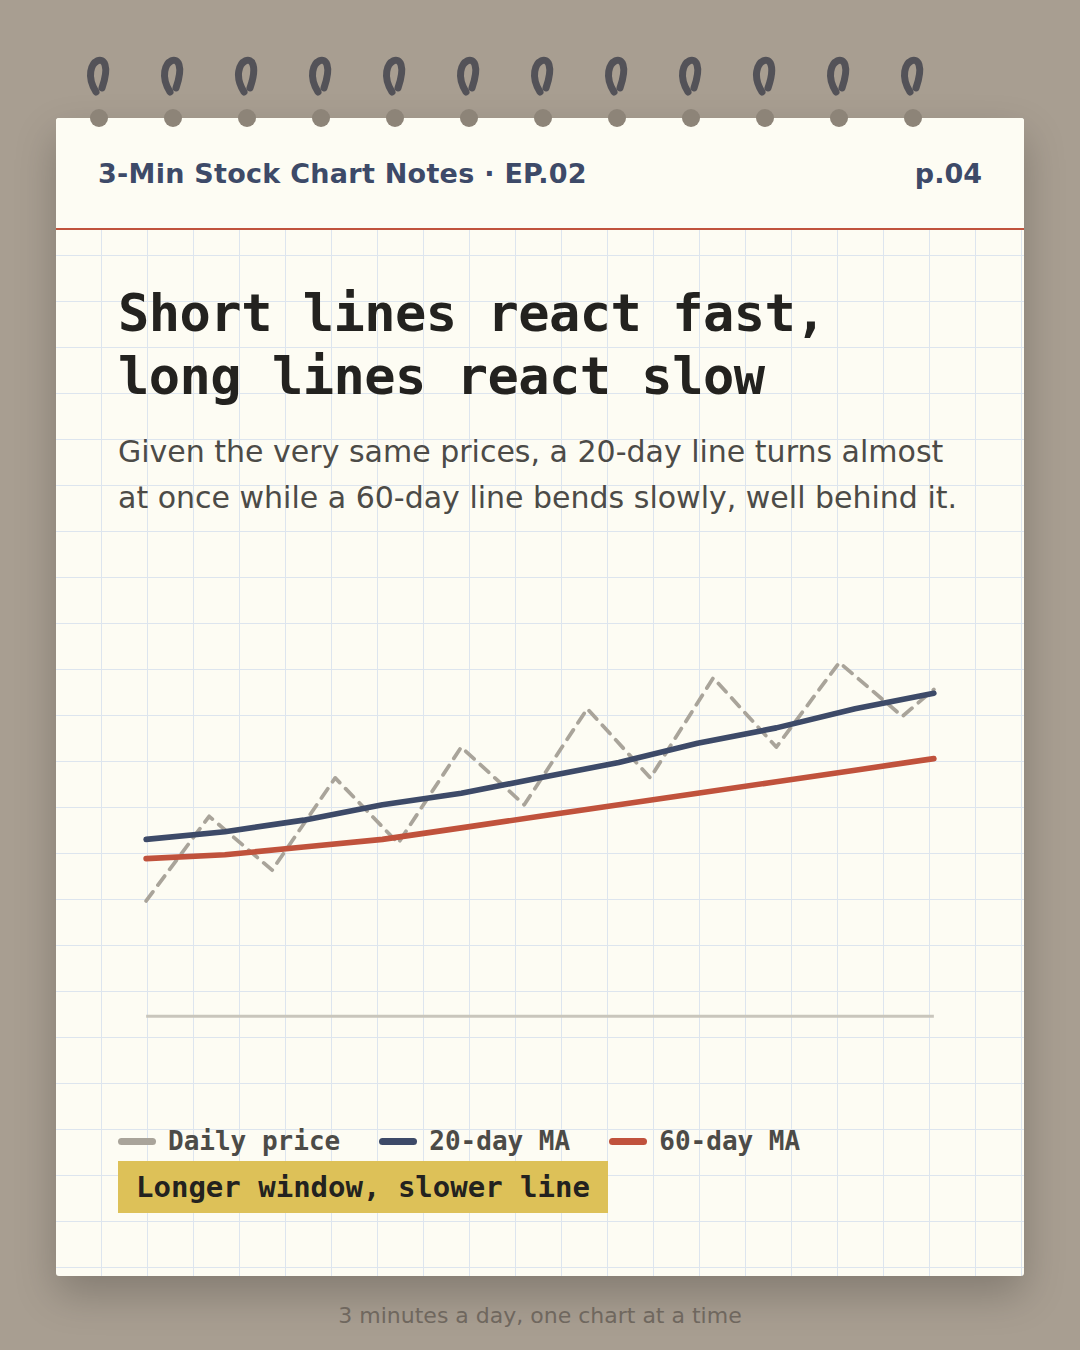
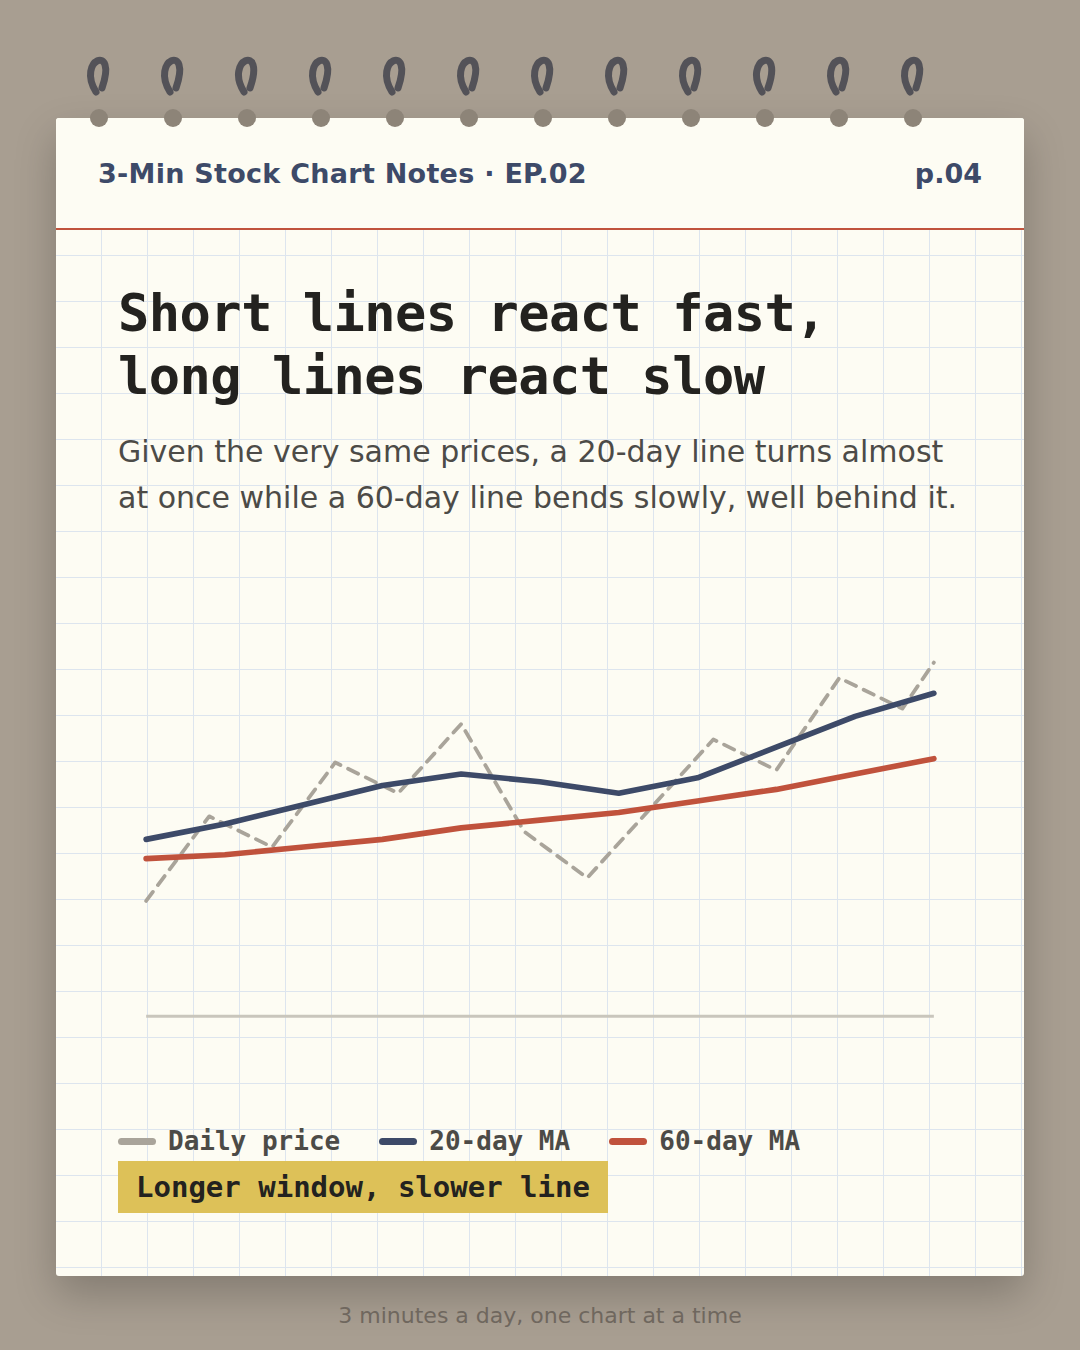
chart-notes: ep02 검증 지적 사항 반영 (사실 정정 + 문구·그림 수정)
별도 검증 에이전트가 잡아낸 5건을 고쳤다. p.06 시세(날짜·이동평균값·종가)는
양쪽 언어 모두 원본과 자릿수까지 일치해 그대로 두었다.

- fact_check.en 이 "최근 2년 중 유일한 50/200 교차"라고 적었는데 사실이 아니다.
  2년치만 받으면 앞쪽 200거래일 구간에서는 200일선이 아예 계산되지 않아
  그 구간의 교차가 보이지 않는다. 5년치로 다시 뽑아 확인하니 2025-04-14 에
  데드크로스(50일선 5,748.25 / 200일선 5,753.90)가 하나 더 있었다.
  기록을 정정하고, 교차 개수를 말하려면 3년치 이상이 필요하다는 점을 함께 남겼다.
- p.04 그림이 본문과 어긋났다. "20일선은 곧바로 방향을 튼다"고 써 놓고
  두 선 모두 한 번도 꺾이지 않는 단조 상승이었다. 20일선이 실제로 눌렸다
  돌아서고 60일선은 계속 완만히 오르도록 다시 그렸다(교차는 생기지 않는다).
- p.03 '101 이면' → '101이면' (조사는 붙여 쓴다), '그 날짜 수' → '그 날 수'.
- 다음 편 예고 문구 '가격은 거짓말을 해도 거래량은 못 합니다'는 단정이라
  뺐다. 거래량도 자전거래 등으로 부풀릴 수 있다. 양쪽 캡션을 함께 고쳤다.

Changed region(s): [[0.1528, 0.4978, 0.8556, 0.6533]]

diff --git a/cards/chart-notes/2026-08-02-ep02/preview.html b/cards/chart-notes/2026-08-02-ep02/preview.html
@@ -56,7 +56,7 @@
 제출하면 다음 확인 루틴이 읽고 처리한 뒤, 결과를 카카오톡으로 알려드립니다.</p>
 
 <div class="fact"><b>시세 검증 기록</b>
-<div>KO — 코스피(^KS11) 20일/60일 이동평균 교차 — 2026-07-21(KST) 데드크로스. 20일선 7,684.13 / 60일선 7,754.10, 당일 종가 6,747.95. 전 거래일 2026-07-20 은 20일선 7,802.46 &gt; 60일선 7,748.11 로 아직 위. Yahoo Finance 일봉 종가로 직접 산출(단순이동평균). 원본 봉은 15:00Z 로 찍혀 실제 거래일은 +1일이며, 어린이날(5/5)·설날(2/17)·지방선거(6/3)·제헌절(7/17) 휴장 자리가 정확히 비어 있어 오프셋을 교차검증함.</div><div>EN — S&amp;P 500 (^GSPC) 50-day/200-day golden cross on 2025-07-01: 50-day 5,846.34 vs 200-day 5,836.35 (close 6,198.01). Prior session 2025-06-30 was still 5,828.03 vs 5,833.13. Only 50/200 crossover in the trailing 2 years; 50-day still above as of 2026-07-31 (7,471.51 vs 7,024.11). Simple moving averages computed directly from Yahoo Finance daily closes.</div></div>
+<div>KO — 코스피(^KS11) 20일/60일 이동평균 교차 — 2026-07-21(KST) 데드크로스. 20일선 7,684.13 / 60일선 7,754.10, 당일 종가 6,747.95. 전 거래일 2026-07-20 은 20일선 7,802.46 &gt; 60일선 7,748.11 로 아직 위. Yahoo Finance 일봉 종가로 직접 산출(단순이동평균). 원본 봉은 15:00Z 로 찍혀 실제 거래일은 +1일이며, 어린이날(5/5)·설날(2/17)·지방선거(6/3)·제헌절(7/17) 휴장 자리가 정확히 비어 있어 오프셋을 교차검증함.</div><div>EN — S&amp;P 500 (^GSPC) 50-day/200-day golden cross on 2025-07-01: 50-day 5,846.34 vs 200-day 5,836.35 (close 6,198.01). Prior session 2025-06-30 was still 5,828.03 vs 5,833.13. Two 50/200 crossovers in the trailing 2 years — dead cross 2025-04-14 (5,748.25 vs 5,753.90) and this golden cross — and none since; 50-day still above as of 2026-07-31 (7,471.51 vs 7,024.11). Simple moving averages computed directly from Yahoo Finance daily closes, over a 5-year pull: a 2-year pull cannot resolve a 200-day average across its own first 200 sessions, so crossover counts need 3y+ of history.</div></div>
 
 
     <h2>🇰🇷 한국어 — 8장</h2>
@@ -93,8 +93,8 @@
       <img src="ko/card8.png" alt="오늘의 3줄 요약과 다음 편(거래량) 예고, 투자 권유가 아니라는 교육 목적 고지" loading="lazy">
       <figcaption><b>p.08</b> 오늘의 3줄 요약과 다음 편(거래량) 예고, 투자 권유가 아니라는 교육 목적 고지</figcaption>
     </figure></div>
-    <h3>캡션 (440자)</h3>
-    <div class="cap">📊 주식 차트 3분 노트 EP.02 — 이동평균선 &amp; 골든크로스<br><br>차트 위에 겹쳐진 그 부드러운 곡선들, 이동평균선입니다.<br>최근 며칠 종가의 평균일 뿐인데 왜 다들 두 선이 만나는 순간을 쳐다볼까요?<br><br>그리고 골든크로스는 '오른다'는 뜻이 아닙니다. 평균은 이미 지나간 가격으로 만들기 때문에, 교차는 예측이 아니라 확인에 가깝습니다.<br>실제로 2026년 7월 21일 코스피에서는 20일선이 60일선을 아래로 뚫는 데드크로스가 나왔습니다. 그 숫자까지 카드에 담았어요.<br><br>📌 저장해두고 차트 볼 때 꺼내보세요<br>👇 주식 시작한 친구 태그하기<br><br>(교육 목적 콘텐츠이며 투자 권유가 아닙니다)<br><br>다음 편은 '거래량' — 가격은 거짓말을 해도 거래량은 못 합니다.<br><br>#주식초보 #주식공부 #이동평균선 #골든크로스 #데드크로스 #주식차트보는법 #코스피 #재테크 #주식용어 #luckyon브리핑</div>
+    <h3>캡션 (443자)</h3>
+    <div class="cap">📊 주식 차트 3분 노트 EP.02 — 이동평균선 &amp; 골든크로스<br><br>차트 위에 겹쳐진 그 부드러운 곡선들, 이동평균선입니다.<br>최근 며칠 종가의 평균일 뿐인데 왜 다들 두 선이 만나는 순간을 쳐다볼까요?<br><br>그리고 골든크로스는 '오른다'는 뜻이 아닙니다. 평균은 이미 지나간 가격으로 만들기 때문에, 교차는 예측이 아니라 확인에 가깝습니다.<br>실제로 2026년 7월 21일 코스피에서는 20일선이 60일선을 아래로 뚫는 데드크로스가 나왔습니다. 그 숫자까지 카드에 담았어요.<br><br>📌 저장해두고 차트 볼 때 꺼내보세요<br>👇 주식 시작한 친구 태그하기<br><br>(교육 목적 콘텐츠이며 투자 권유가 아닙니다)<br><br>다음 편은 '거래량' — 가격이 말해주지 않는 것을 거래량이 보여줍니다.<br><br>#주식초보 #주식공부 #이동평균선 #골든크로스 #데드크로스 #주식차트보는법 #코스피 #재테크 #주식용어 #luckyon브리핑</div>
 
     <h2>🇺🇸 English — 8장</h2>
     <div class="cards">
@@ -130,8 +130,8 @@
       <img src="en/card8.png" alt="Recap in three lines, a preview of the next episode on trading volume, and an educational-purpose disclaimer" loading="lazy">
       <figcaption><b>p.08</b> Recap in three lines, a preview of the next episode on trading volume, and an educational-purpose disclaimer</figcaption>
     </figure></div>
-    <h3>캡션 (876자)</h3>
-    <div class="cap">📊 3-Min Stock Chart Notes EP.02 — Moving averages &amp; the golden cross<br><br>Those smooth curves laid over the candles are moving averages.<br>They are just the average of the last few closes — so why does everyone watch the moment two of them meet?<br><br>And a golden cross is not a "buy" signal. An average is built from prices that already happened, so a crossing confirms a trend rather than predicting one.<br>A real one: on July 1, 2025 the S&amp;P 500's 50-day average crossed above its 200-day by just 10 points — and it has stayed above ever since.<br><br>📌 Save it &amp; pull it up when you chart<br>👇 Tag a friend who just started investing<br><br>(Educational content only — not investment advice)<br><br>Next up: trading volume — price can lie, volume can't.<br><br>#investing101 #stockmarket #movingaverage #goldencross #deadcross #tradingforbeginners #stockmarketbasics #investingtips #charting #luckyonbriefing</div>
+    <h3>캡션 (880자)</h3>
+    <div class="cap">📊 3-Min Stock Chart Notes EP.02 — Moving averages &amp; the golden cross<br><br>Those smooth curves laid over the candles are moving averages.<br>They are just the average of the last few closes — so why does everyone watch the moment two of them meet?<br><br>And a golden cross is not a "buy" signal. An average is built from prices that already happened, so a crossing confirms a trend rather than predicting one.<br>A real one: on July 1, 2025 the S&amp;P 500's 50-day average crossed above its 200-day by just 10 points — and it has stayed above ever since.<br><br>📌 Save it &amp; pull it up when you chart<br>👇 Tag a friend who just started investing<br><br>(Educational content only — not investment advice)<br><br>Next up: trading volume — what price alone won't tell you.<br><br>#investing101 #stockmarket #movingaverage #goldencross #deadcross #tradingforbeginners #stockmarketbasics #investingtips #charting #luckyonbriefing</div>
 
 
 <div class="act">
